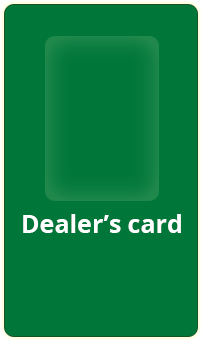
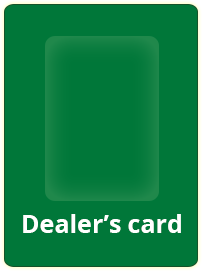
reposition elements

diff --git a/js/background.js b/js/background.js
@@ -7,30 +7,16 @@ define(function(require) {
         this.logo = this.addChild(new PIXI.Sprite.fromImage(config.stageImages.logo));
         this.logo.anchor = new PIXI.Point(0.5, 0.5);
         this.logo.x = 512;
-        this.logo.y = 122;
+        this.logo.y = 102;
 
         this.footer = this.addChild(new PIXI.Sprite.fromImage(config.stageImages.footer));
         this.footer.anchor = new PIXI.Point(0.5, 1);
         this.footer.x = 512;
         this.footer.y = config.canvas.height;
 
-        this.dealerBG = this.addChild(new PIXI.Sprite.fromImage(config.stageImages.dealerBG));
-        this.dealerBG.anchor = new PIXI.Point(0, 0.5);
-        this.dealerBG.x = 40;
-        this.dealerBG.y = 424;
-        this.dealerBG.dims = this.dealerBG.getLocalBounds();
-
-        this.playerBG = this.addChild(new PIXI.Sprite.fromImage(config.stageImages.playerBG));
-        this.playerBG.anchor = new PIXI.Point(1.0, 0.5);
-        this.playerBG.x = config.canvas.width - 40;
-        this.playerBG.y = 424;
-
     };
 
     Background.prototype = Object.create(PIXI.DisplayObjectContainer.prototype);
-
-    Background.prototype.pickCard = function(){
-    };
 
     return Background;
 

diff --git a/js/player.js b/js/player.js
@@ -6,20 +6,24 @@ define(function(require) {
         PIXI.DisplayObjectContainer.call(this);
         this.deck = deck;
         this.cards = [];
-        // XXX: empty slots for the cards
-        // XXX: assure player cannot pick the same card as the dealer
+
+        this.playerBG = this.addChild(new PIXI.Sprite.fromImage(config.stageImages.playerBG));
+        this.playerBG.anchor = new PIXI.Point(1.0, 0.5);
+        this.playerBG.x = config.canvas.width - 40;
+        this.playerBG.y = 374;
     };
 
     Player.prototype = Object.create(PIXI.DisplayObjectContainer.prototype);
 
     Player.prototype.pickCards = function(){
         this.children.length = 0;
+        this.addChild(this.playerBG);
         var that = this;
         this.cards = Array.apply(null, Array(config.player.choices)).map(function (card, i) {
             // http://stackoverflow.com/a/10050831/3345926
             card = that.addChild(that.deck.pickRandom());
             card.x = 307 + i * (card.width + config.player.cardsOffset);
-            card.y = 290;
+            card.y = 240;
             return card;
         });
     };

diff --git a/js/dealer.js b/js/dealer.js
@@ -6,15 +6,23 @@ define(function(require) {
         PIXI.DisplayObjectContainer.call(this);
         this.deck = deck;
         this.cards = [];
+
+        this.dealerBG = this.addChild(new PIXI.Sprite.fromImage(config.stageImages.dealerBG));
+        this.dealerBG.anchor = new PIXI.Point(0, 0.5);
+        this.dealerBG.x = 40;
+        this.dealerBG.y = 339;
+
     };
 
     Dealer.prototype = Object.create(PIXI.DisplayObjectContainer.prototype);
 
     Dealer.prototype.pickCard = function(){
         this.children.length = 0;
+        this.addChild(this.dealerBG);
+
         this.card = this.addChild(this.deck.pickRandom());
         this.card.x = 85;
-        this.card.y = 290;
+        this.card.y = 240;
     };
 
     Dealer.prototype.reveal = function( chosen ) {
